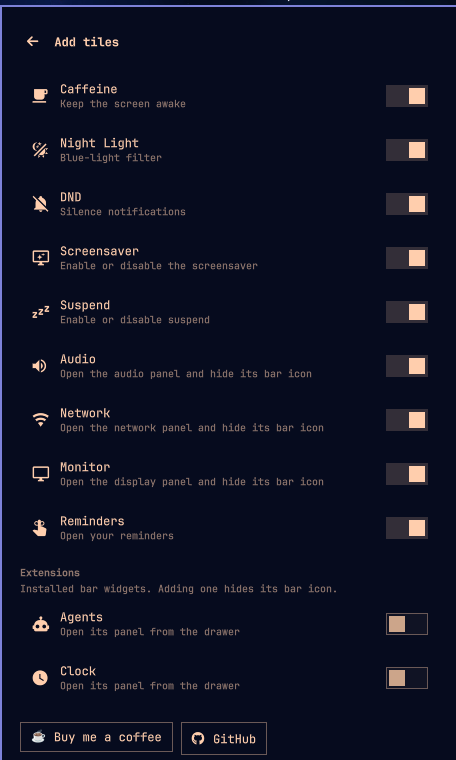
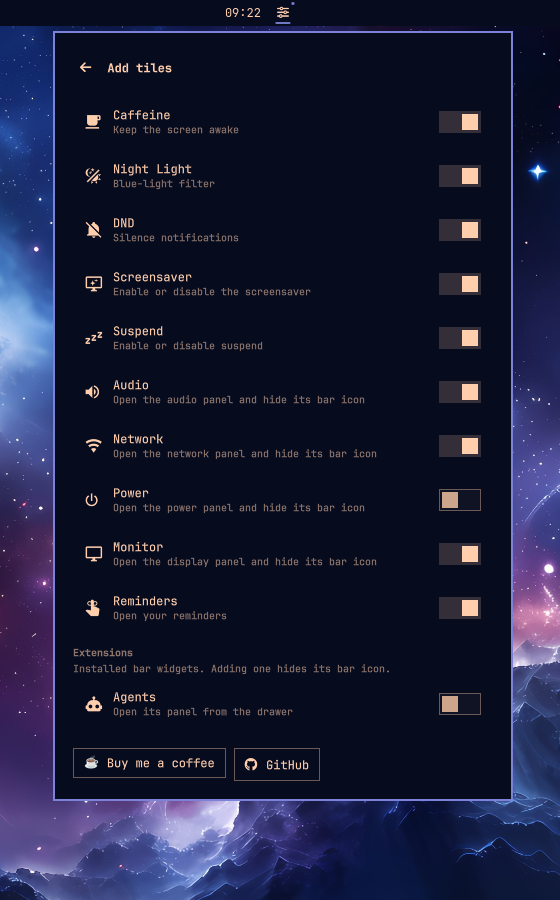
Rework the marketplace preview around a live hero shot
The old preview was a portrait window capture of the drawer, so the
marketplace card cropped it to a strip of tiles with no bar and no
context. The new preview is a 1600x1000 poster: headline and three
capabilities on the left, a framed live capture of the bar mark and the
open drawer on the right, on the theme wallpaper.

Also capture Add tiles and the custom command form for the README, keep
the build (poster.html + build.sh) next to the images so they can be
regenerated, and label the drawer and its tooltip Quick Drawer instead
of the inherited Quick Settings.

diff --git a/preview/poster.html b/preview/poster.html
@@ -1,0 +1,240 @@
+<!doctype html>
+<html lang="en">
+<head>
+<meta charset="utf-8">
+<title>Quick Drawer — marketplace preview</title>
+<style>
+  :root {
+    --bg: #060B1E;
+    --fg: #FFCEAD;
+    --fg-soft: #f6e3d6;
+    --muted: #b9a9c9;
+    --accent: #ED5B5A;
+    --iris: #7d82d9;
+    --mono: "JetBrainsMono Nerd Font", "JetBrains Mono", monospace;
+  }
+
+  * { margin: 0; padding: 0; box-sizing: border-box; }
+
+  html, body {
+    width: 1600px;
+    height: 1000px;
+    background: var(--bg);
+    overflow: hidden;
+  }
+
+  .stage {
+    position: relative;
+    width: 1600px;
+    height: 1000px;
+    background:
+      radial-gradient(820px 640px at 86% 46%, rgba(255, 206, 173, .17), transparent 64%),
+      radial-gradient(1000px 760px at 8% 4%, rgba(125, 130, 217, .22), transparent 62%),
+      linear-gradient(140deg, #060B1E 0%, #0a1030 48%, #150a28 100%);
+    font-family: var(--mono);
+    color: var(--fg-soft);
+  }
+
+  /* blurred copy of the theme wallpaper, just for texture */
+  .wall {
+    position: absolute;
+    inset: -70px;
+    background: url(wallpaper.jpg) center / cover no-repeat;
+    filter: blur(44px) saturate(1.2);
+    opacity: .42;
+    transform: scale(1.08);
+  }
+
+  .vignette {
+    position: absolute;
+    inset: 0;
+    background:
+      linear-gradient(90deg, #060B1E 0%, rgba(6, 11, 30, .94) 32%, rgba(6, 11, 30, .12) 64%, rgba(6, 11, 30, 0) 100%),
+      radial-gradient(130% 120% at 55% 48%, transparent 46%, rgba(3, 6, 18, .80) 100%);
+  }
+
+  .grid {
+    position: absolute;
+    inset: 0;
+    background-image:
+      linear-gradient(rgba(255, 255, 255, .04) 1px, transparent 1px),
+      linear-gradient(90deg, rgba(255, 255, 255, .04) 1px, transparent 1px);
+    background-size: 48px 48px;
+    mask-image: radial-gradient(74% 74% at 26% 44%, #000 18%, transparent 76%);
+    opacity: .55;
+  }
+
+  /* ------------------------------------------------------------- copy side */
+
+  .copy {
+    position: absolute;
+    left: 104px;
+    top: 236px;
+    width: 660px;
+  }
+
+  .eyebrow {
+    display: flex;
+    align-items: center;
+    gap: 14px;
+    font-size: 14px;
+    font-weight: 600;
+    letter-spacing: .30em;
+    text-transform: uppercase;
+    color: rgba(255, 206, 173, .78);
+  }
+
+  .eyebrow .rule {
+    width: 46px;
+    height: 1px;
+    background: linear-gradient(90deg, rgba(255, 206, 173, .85), rgba(255, 206, 173, .15));
+  }
+
+  h1 {
+    margin-top: 28px;
+    font-size: 104px;
+    line-height: .94;
+    font-weight: 800;
+    letter-spacing: -.045em;
+    color: var(--fg);
+    text-shadow: 0 14px 50px rgba(255, 206, 173, .18);
+  }
+
+  .tagline {
+    margin-top: 26px;
+    font-size: 25px;
+    line-height: 1.42;
+    color: #f2dfd2;
+    letter-spacing: -.01em;
+  }
+
+  .features {
+    margin-top: 36px;
+    display: flex;
+    flex-direction: column;
+    gap: 16px;
+    font-size: 17px;
+    color: rgba(246, 227, 214, .82);
+  }
+
+  .features li {
+    display: flex;
+    align-items: baseline;
+    gap: 14px;
+    list-style: none;
+  }
+
+  .features b {
+    color: var(--fg);
+    font-weight: 600;
+  }
+
+  .dot {
+    flex: none;
+    width: 7px;
+    height: 7px;
+    border-radius: 50%;
+    background: var(--accent);
+    box-shadow: 0 0 12px rgba(237, 91, 90, .85);
+    transform: translateY(-2px);
+  }
+
+  .foot {
+    margin-top: 44px;
+    display: flex;
+    align-items: center;
+    font-size: 13px;
+    letter-spacing: .16em;
+    text-transform: uppercase;
+    color: rgba(255, 206, 173, .52);
+  }
+
+  .foot span:not(:last-child)::after {
+    content: "·";
+    margin: 0 12px;
+    color: rgba(255, 206, 173, .28);
+  }
+
+  /* ------------------------------------------------------------ shot side */
+
+  .shot {
+    position: absolute;
+    right: 118px;
+    top: 262px;
+    width: 480px;
+  }
+
+  .glow {
+    position: absolute;
+    left: 50%;
+    top: 50%;
+    width: 720px;
+    height: 720px;
+    transform: translate(-50%, -50%);
+    background: radial-gradient(circle, rgba(255, 206, 173, .20), rgba(125, 130, 217, .12) 40%, transparent 68%);
+    filter: blur(16px);
+  }
+
+  .frame {
+    position: relative;
+    padding: 9px;
+    border-radius: 16px;
+    border: 1px solid rgba(255, 206, 173, .26);
+    background: linear-gradient(180deg, rgba(255, 255, 255, .08), rgba(255, 255, 255, .02));
+    box-shadow:
+      0 36px 96px rgba(0, 0, 0, .66),
+      0 1px 0 rgba(255, 255, 255, .10) inset,
+      0 0 0 1px rgba(0, 0, 0, .40);
+  }
+
+  .frame img {
+    display: block;
+    width: 460px;
+    height: 460px;
+    border-radius: 9px;
+  }
+
+  /* soft coral rim light on the top-left corner of the shot */
+  .rim {
+    position: absolute;
+    left: -1px;
+    top: 26px;
+    width: 1px;
+    height: 260px;
+    background: linear-gradient(180deg, transparent, rgba(255, 206, 173, .55), transparent);
+  }
+</style>
+</head>
+<body>
+  <div class="stage">
+    <div class="wall"></div>
+    <div class="vignette"></div>
+    <div class="grid"></div>
+
+    <section class="copy">
+      <div class="eyebrow"><span class="rule"></span>Omarchy · Bar widget</div>
+      <h1>Quick<br>Drawer</h1>
+      <p class="tagline">Every quick toggle.<br>One mark in the bar.</p>
+
+      <ul class="features">
+        <li><span class="dot"></span><span><b>Caffeine, Night Light and DND</b> without leaving the bar</span></li>
+        <li><span class="dot"></span><span>Panel widgets move <b>into the drawer</b> and leave the bar clean</span></li>
+        <li><span class="dot"></span><span>Your own <b>command tiles</b>, with any glyph you like</span></li>
+        <li><span class="dot"></span><span><b>Drag to reorder</b> — the layout is saved</span></li>
+      </ul>
+
+      <div class="foot">
+        <span>Free</span><span>MIT</span><span>No telemetry</span><span>Omarchy 4.x</span>
+      </div>
+    </section>
+
+    <section class="shot">
+      <div class="glow"></div>
+      <div class="frame">
+        <div class="rim"></div>
+        <img src="drawer.png" alt="Quick Drawer open under the Omarchy bar">
+      </div>
+    </section>
+  </div>
+</body>
+</html>

diff --git a/Indicators.qml b/Indicators.qml
@@ -1139,7 +1139,7 @@ BarWidget {
     bar: root.bar
     slotSize: Style.bar.iconSlot
     text: "\uf1de"
-    tooltipText: "Quick Settings"
+    tooltipText: "Quick Drawer"
     onPressed: function(button) { root.toggle() }
   }
 
@@ -1197,7 +1197,7 @@ BarWidget {
 
         PanelHeader {
           width: parent.width
-          title: "Quick Settings"
+          title: "Quick Drawer"
           showBack: false
           onAction: root.view = "settings"
         }

diff --git a/README.md b/README.md
@@ -2,9 +2,11 @@
 
 A quick-toggle drawer for the [Omarchy](https://omarchy.org) bar.
 
-![Quick Drawer](preview.png)
+![Quick Drawer: one bar mark opens a drawer of quick toggles](preview.png)
 
-![Add tiles](preview-settings.png)
+![The Add tiles catalogue, with a switch for every tile](preview-settings.png)
+
+![Adding a custom command tile with a label, glyph and command](preview-custom.png)
 
 Quick Drawer puts the things you reach for all day — caffeine, night light,
 do-not-disturb, screensaver and suspend — behind one bar mark. Add panel
